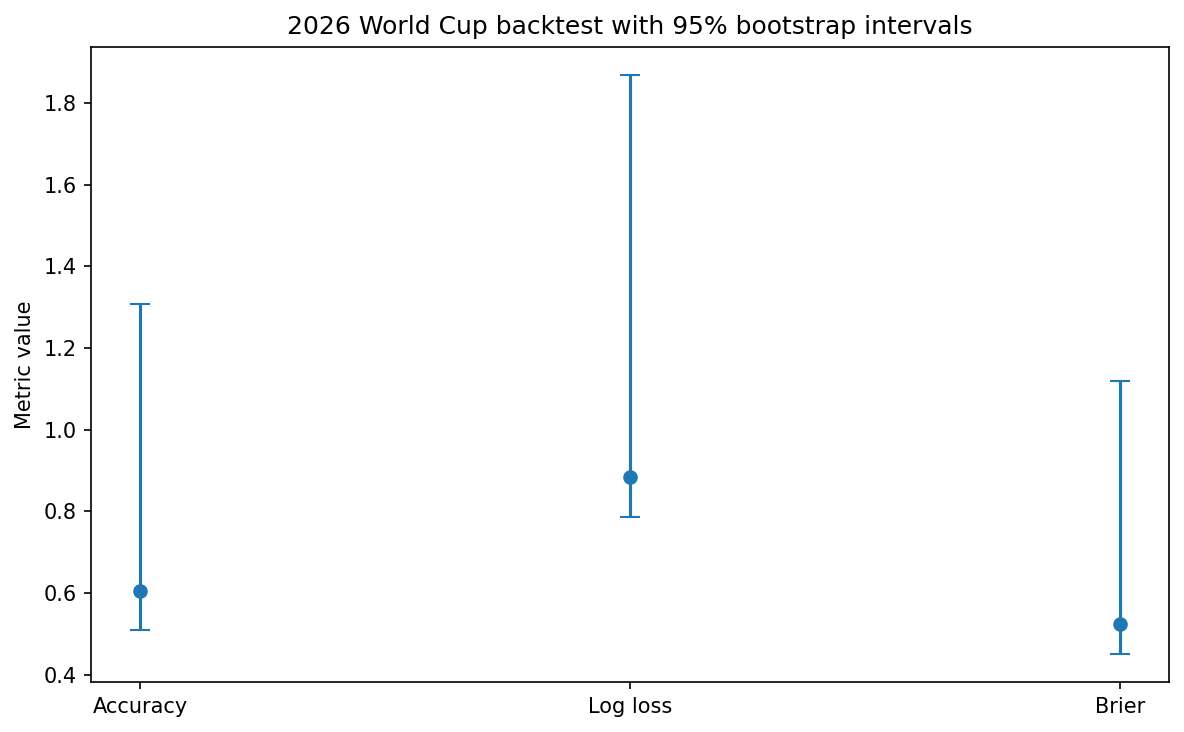
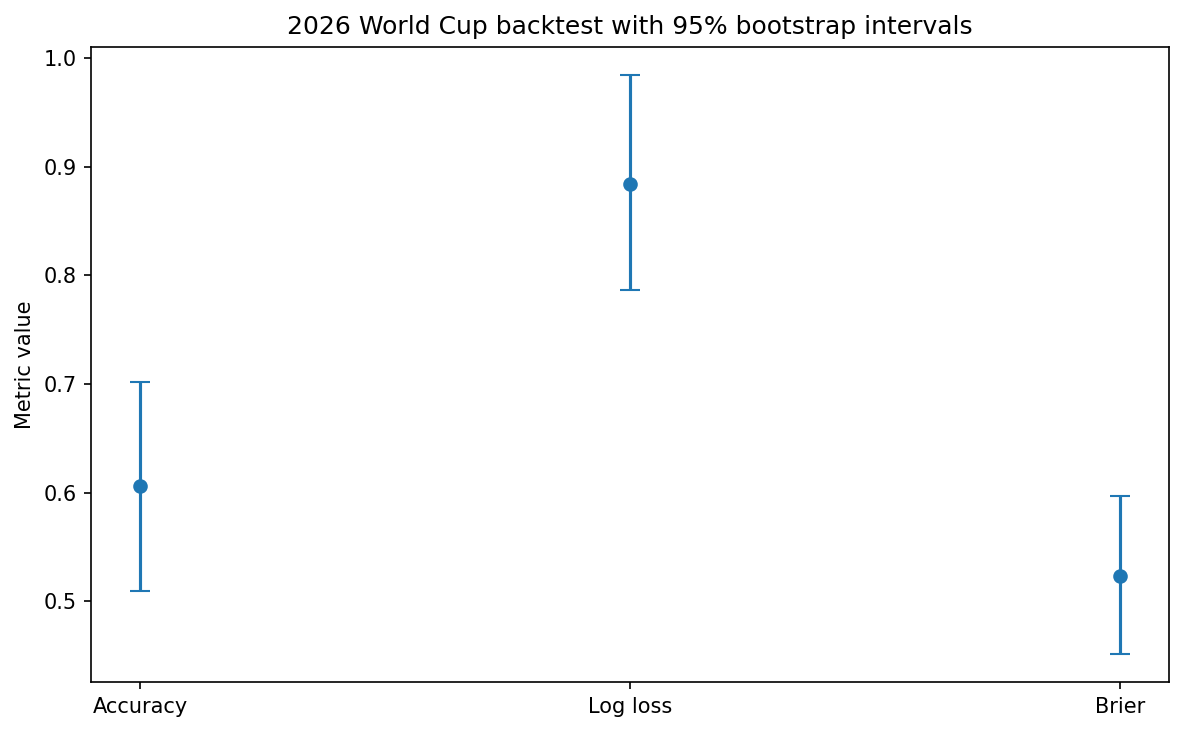
feat: add retrospective 2026 World Cup validation

diff --git a/docs/COMMIT_12_CHECKLIST.md b/docs/COMMIT_12_CHECKLIST.md
@@ -23,3 +23,4 @@
 - [x] Extend `.gitignore` for those artefacts
 - [x] Run the notebook fresh end to end
 - [x] Clear committed notebook outputs
+- [x] Correct bootstrap plot error-bar distances and validate interval bounds
